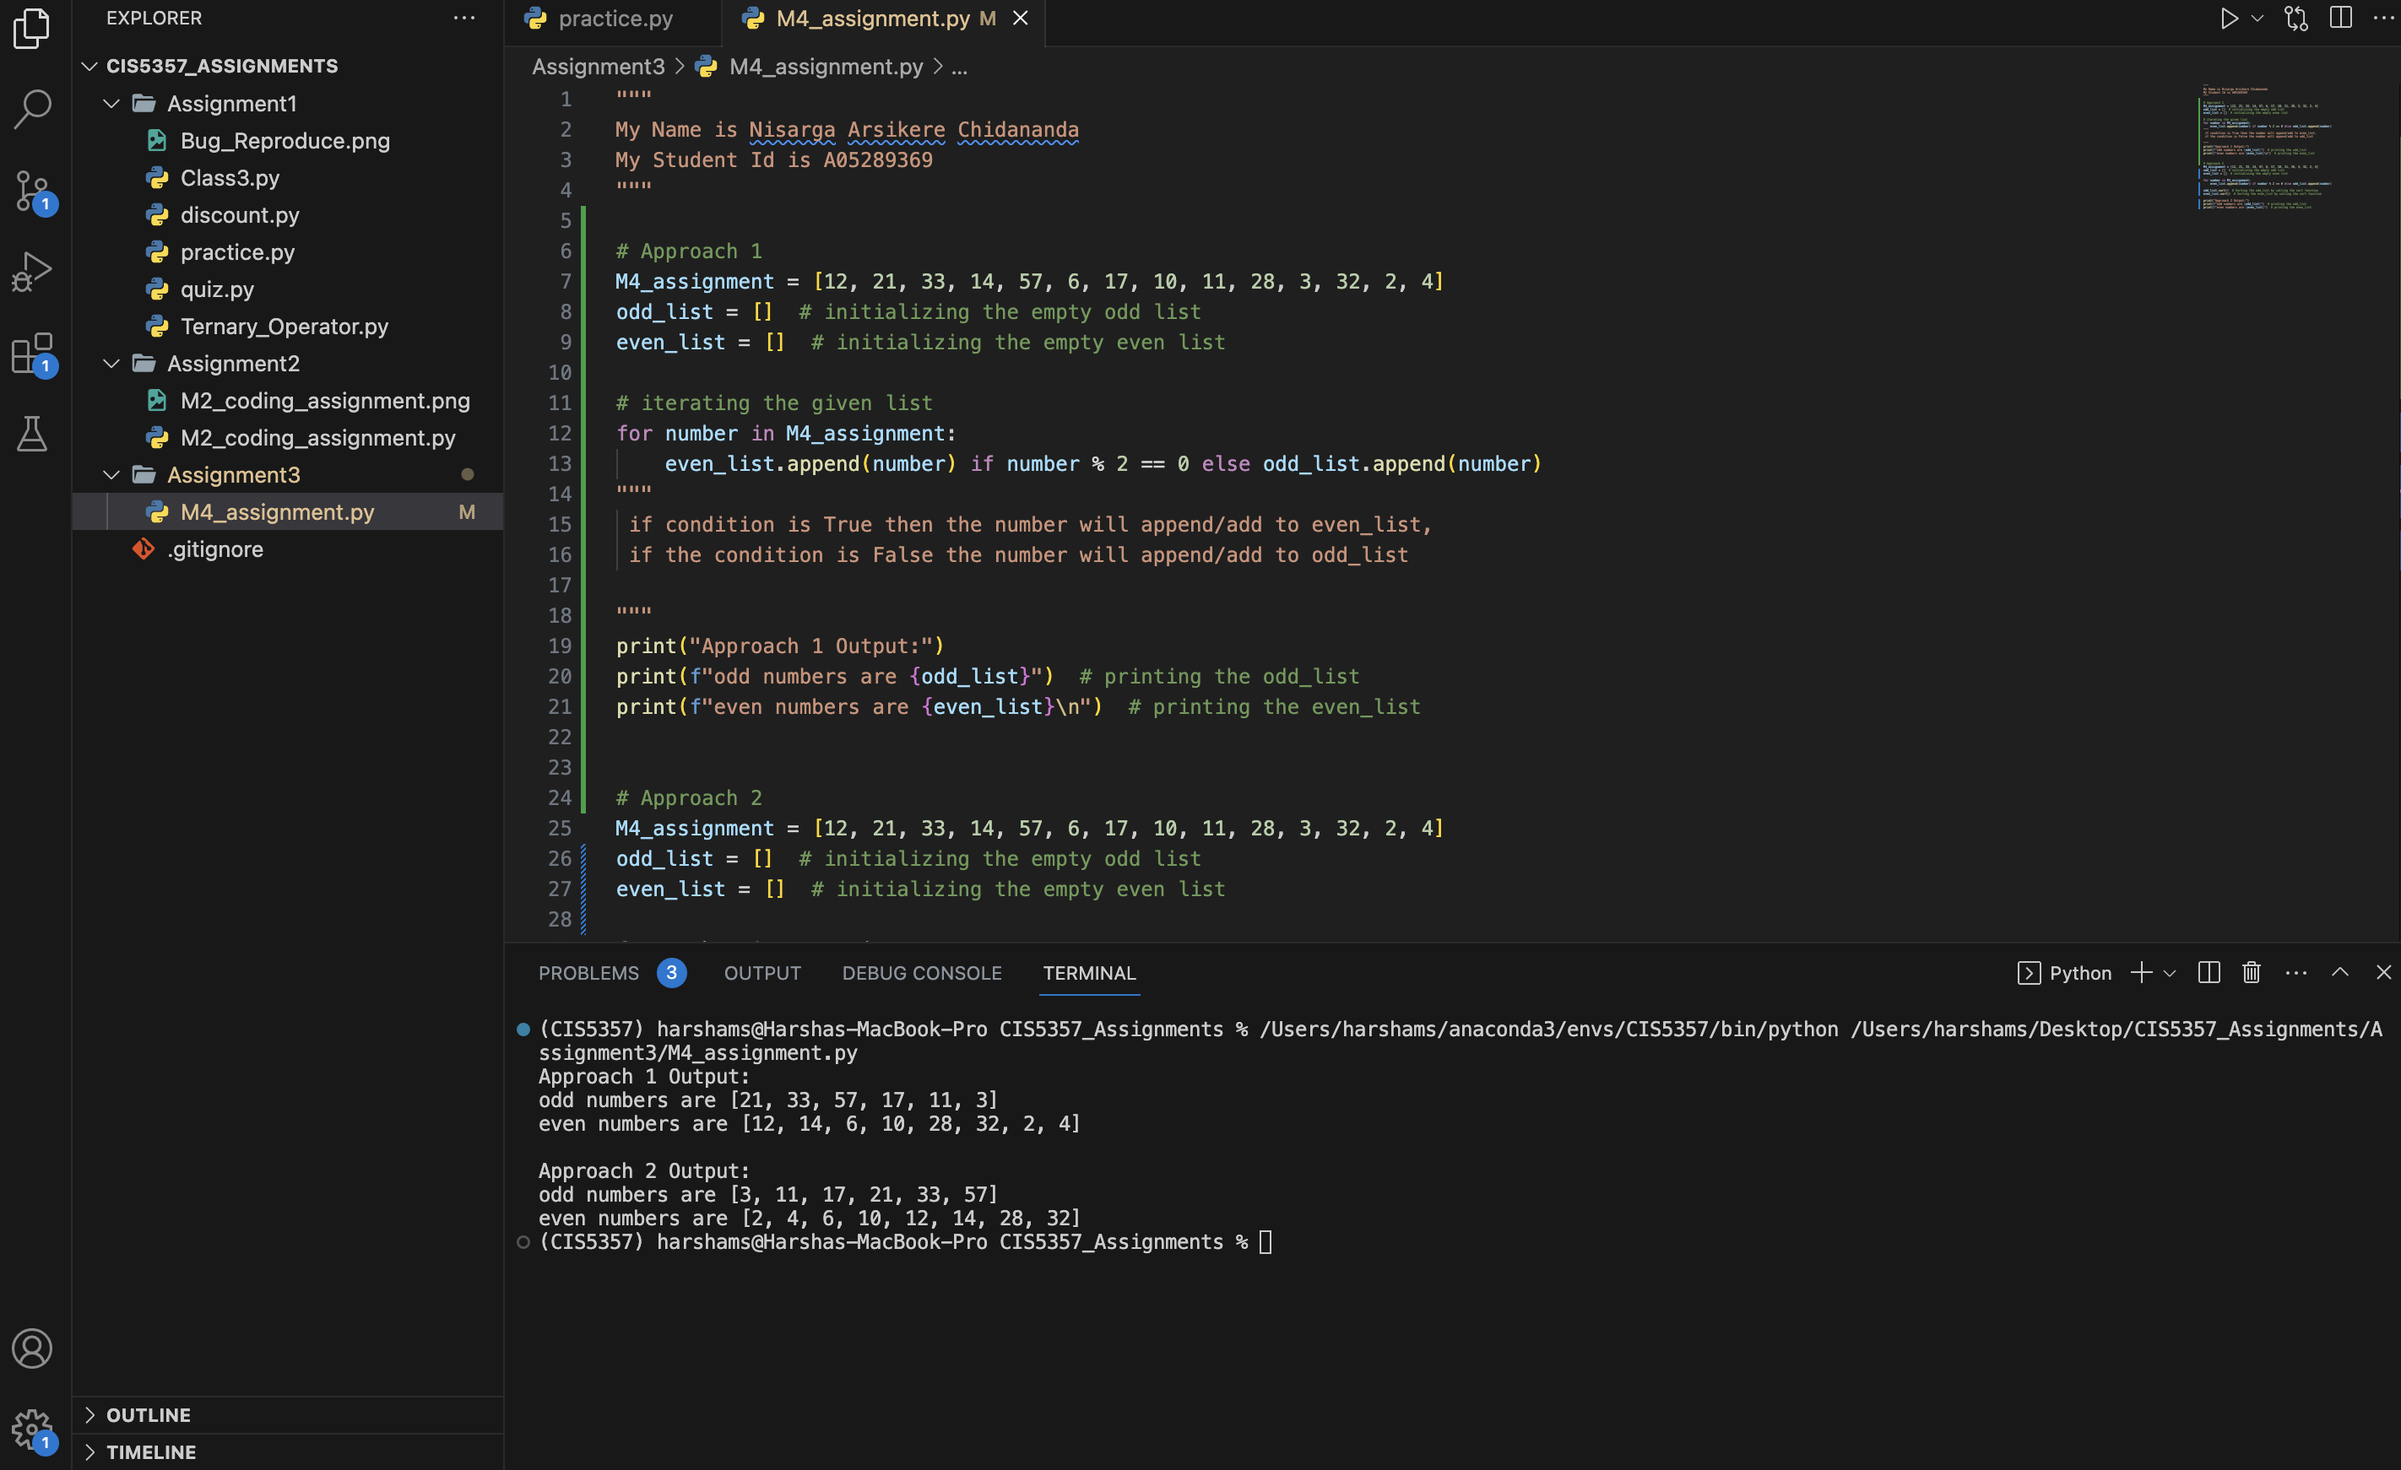
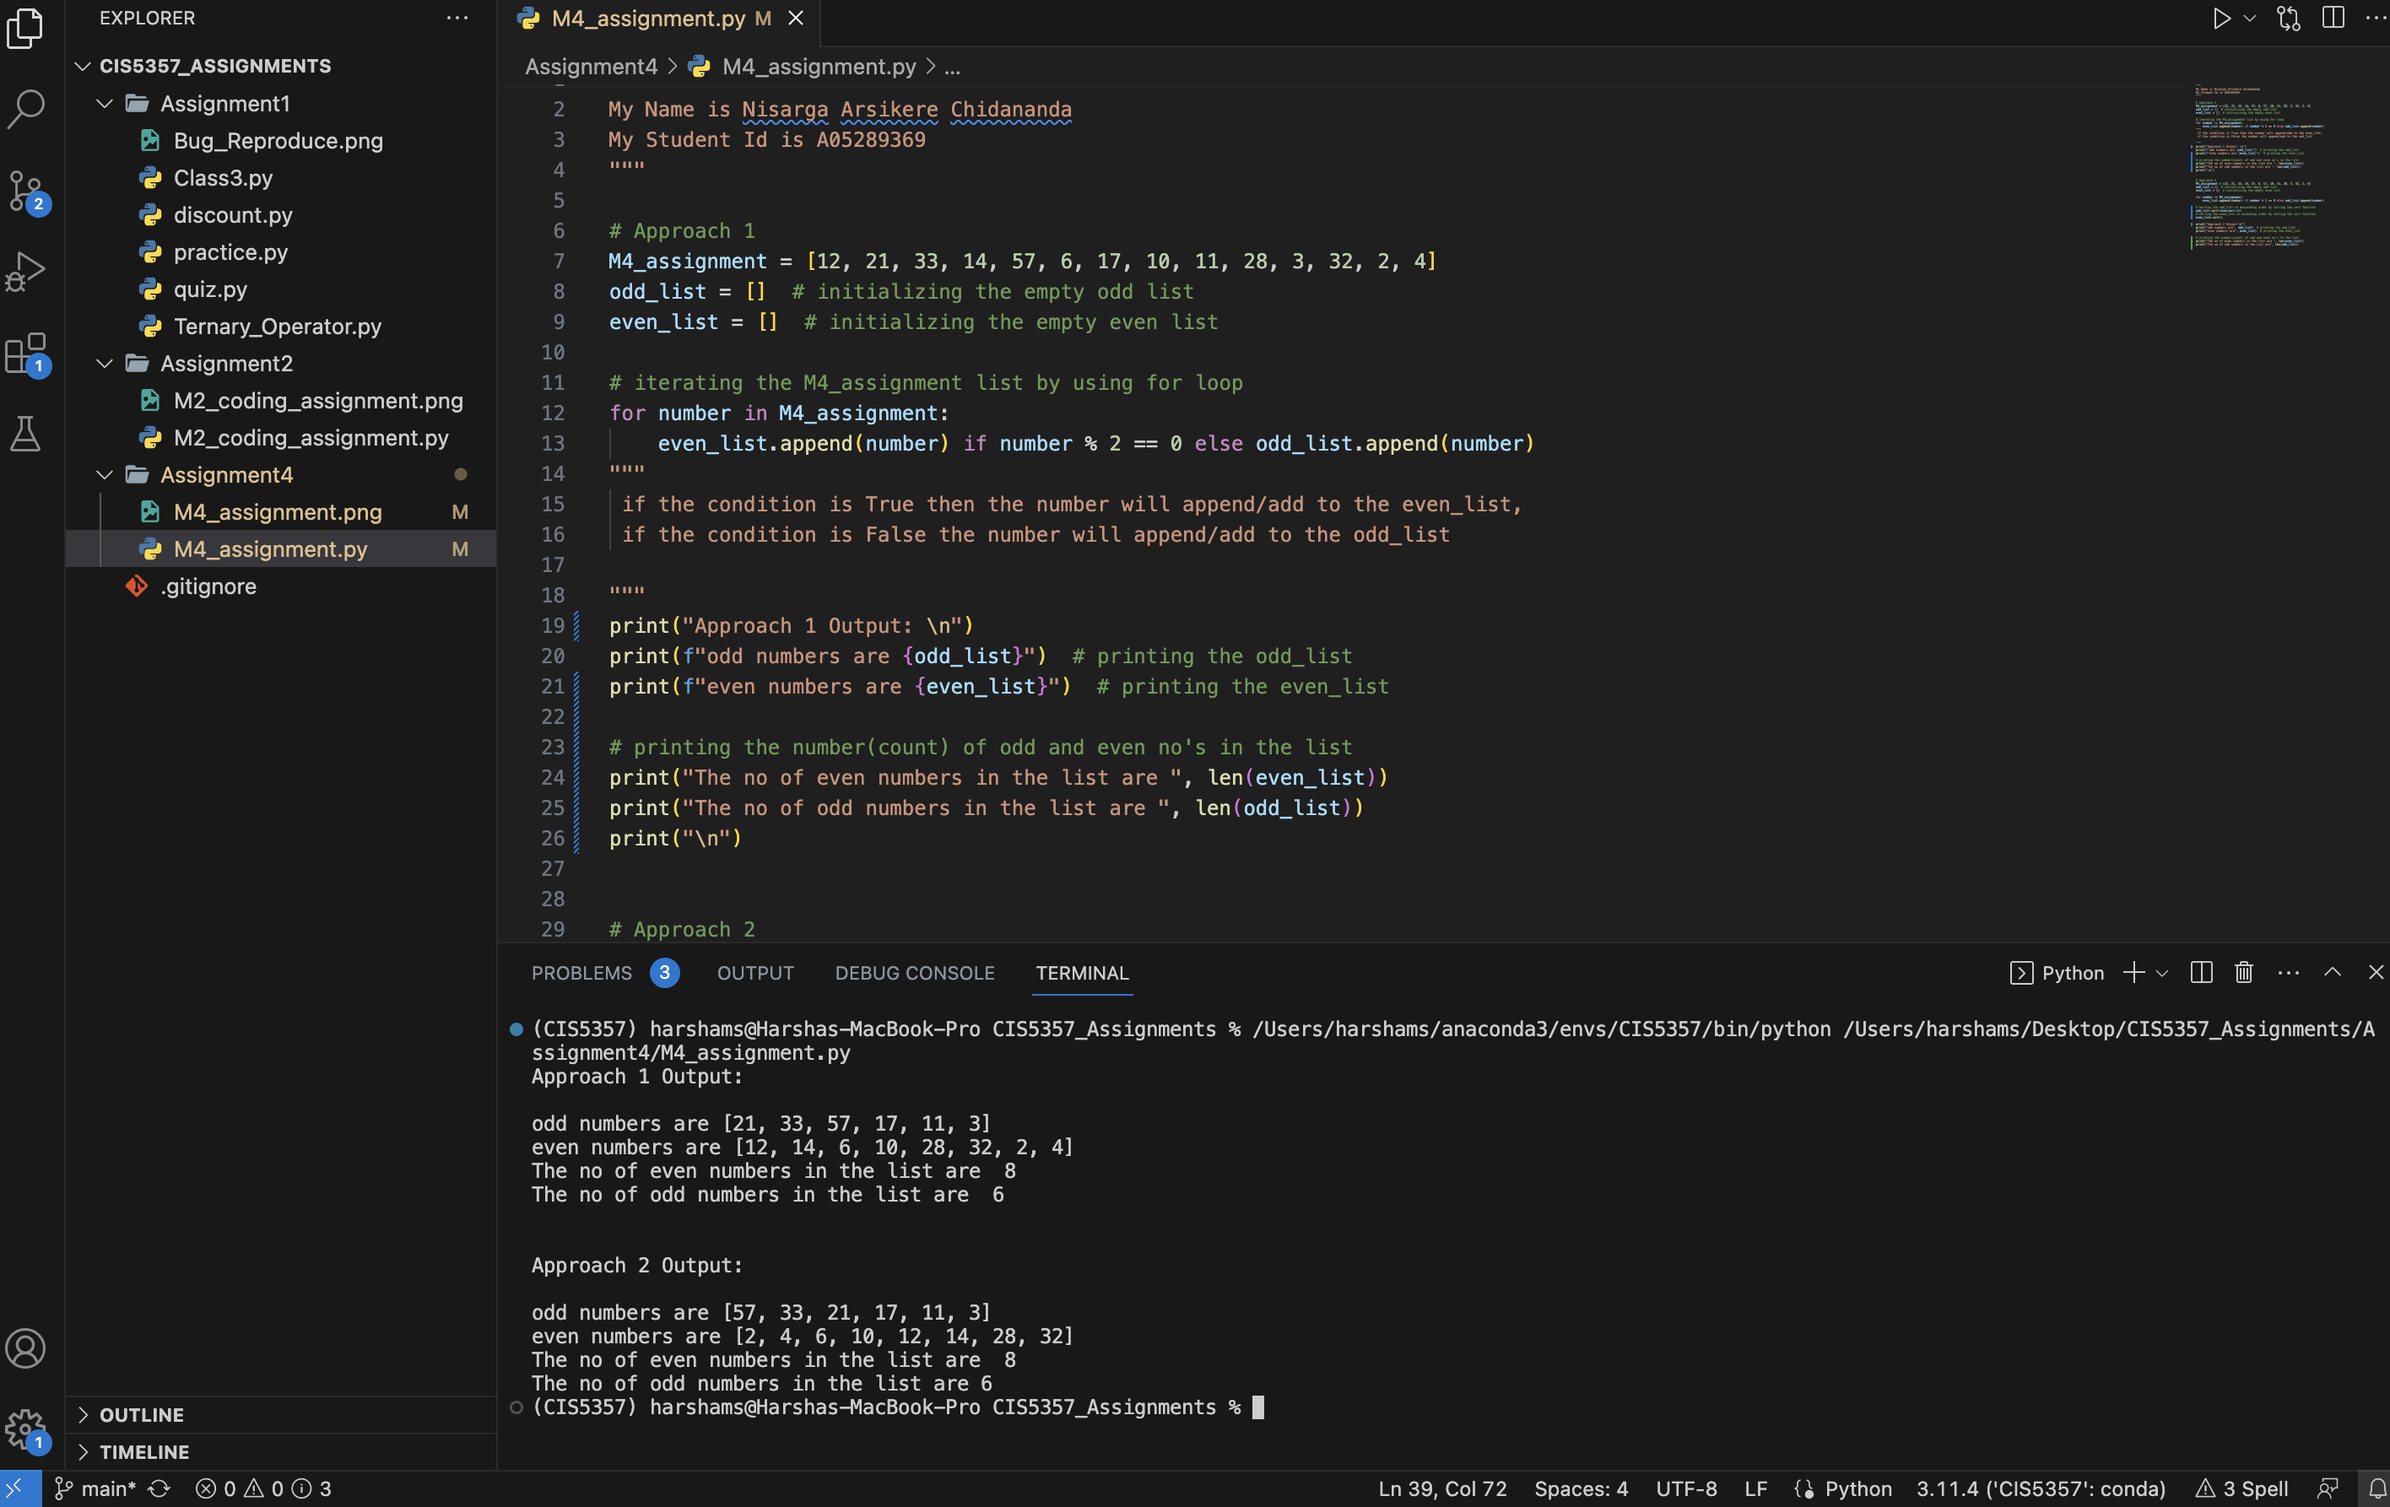
updated some changes and added the new file

diff --git a/Assignment4/M4_assignment.py b/Assignment4/M4_assignment.py
@@ -16,9 +16,14 @@ for number in M4_assignment:
  if the condition is False the number will append/add to the odd_list
 
 """
-print("Approach 1 Output:")
+print("Approach 1 Output: \n")
 print(f"odd numbers are {odd_list}")  # printing the odd_list
-print(f"even numbers are {even_list}\n")  # printing the even_list
+print(f"even numbers are {even_list}")  # printing the even_list
+
+# printing the number(count) of odd and even no's in the list
+print("The no of even numbers in the list are ", len(even_list))
+print("The no of odd numbers in the list are ", len(odd_list))
+print("\n")
 
 
 # Approach 2
@@ -29,9 +34,15 @@ even_list = []  # initializing the empty even list
 for number in M4_assignment:
     even_list.append(number) if number % 2 == 0 else odd_list.append(number)
 
-odd_list.sort()  # Sorting the odd_list in ascending order by calling the sort function
-even_list.sort()  # Sorting the even_list in ascending order by calling the sort function
+# Sorting the odd_list in descending order by calling the sort function
+odd_list.sort(reverse=True)
+# Sorting the even_list in ascending order by calling the sort function
+even_list.sort()
 
-print("Approach 2 Output:")
+print("Approach 2 Output:\n")
 print("odd numbers are", odd_list)  # printing the odd_list
 print("even numbers are", even_list)  # printing the even_list
+
+# printing the number(count) of odd and even no's in the list
+print("The no of even numbers in the list are ", len(even_list))
+print("The no of odd numbers in the list are", len(odd_list))
